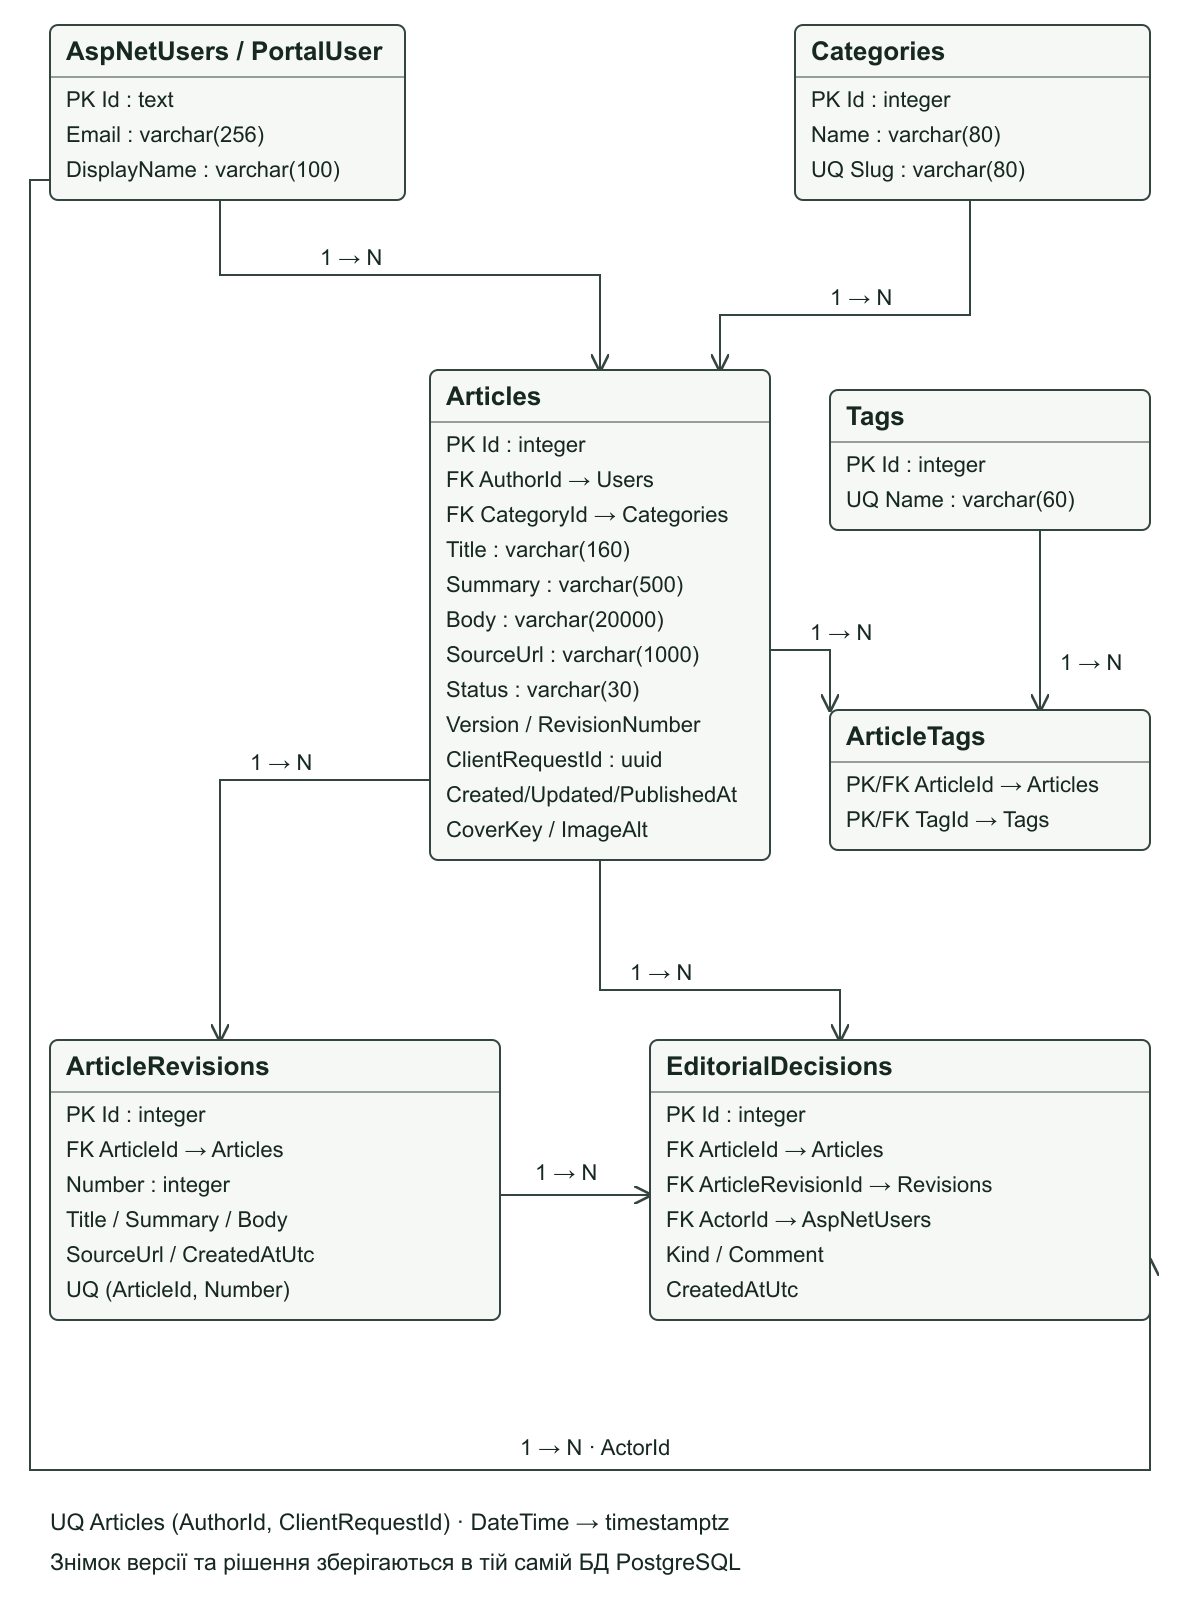
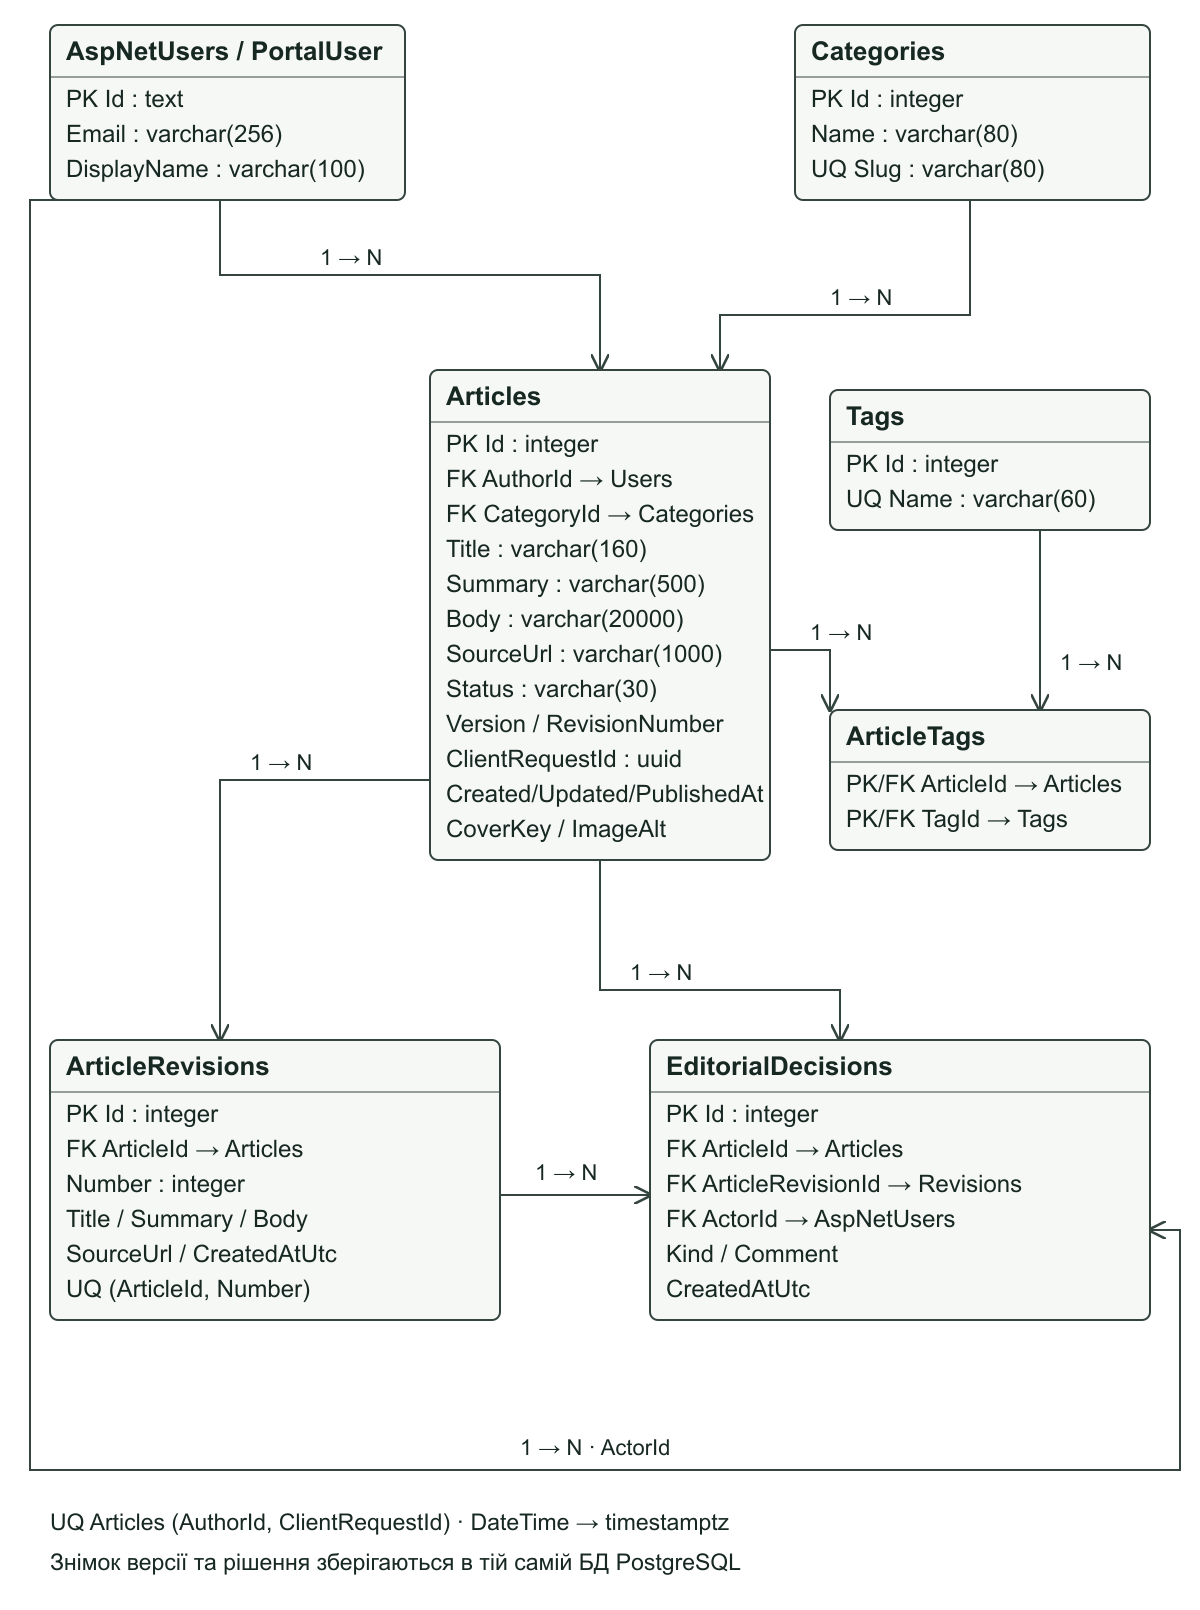
Polish diagrams and record visible revision comparison for submission

diff --git a/README.md b/README.md
@@ -2,6 +2,8 @@
 
 Курсова робота з дисципліни «Веб-технології та веб-дизайн», варіант №1 — науково-популярний новинний портал. Резников Володимир Іванович, АІ-231.
 
+Репозиторій: [D0zz1/ScienceLine](https://github.com/D0zz1/ScienceLine). Версія подання: **v1.0.1**. Файли цієї версії доступні за відповідною Git-позначкою.
+
 Працездатний ASP.NET Core MVC застосунок із PostgreSQL, EF Core migrations, ASP.NET Core Identity та локальною копією Bootstrap 5.3.8. Це навчальна редакція: початкові статті й облікові записи демонстраційні, ілюстрації — власні SVG-схеми. Публічна статична копія не використовується замість backend.
 
 ## Що реалізовано
@@ -26,7 +28,7 @@ CREATE ROLE scienceline LOGIN PASSWORD 'REPLACE_WITH_RANDOM_DATABASE_PASSWORD';
 CREATE DATABASE scienceline OWNER scienceline;
 ```
 
-У PowerShell із кореня репозиторію:
+У PowerShell 7 із кореня репозиторію:
 
 ```powershell
 $env:ConnectionStrings__Portal='Host=127.0.0.1;Port=5432;Database=scienceline;Username=scienceline;Password=YOUR_DATABASE_PASSWORD'

diff --git a/docs/release.md b/docs/release.md
@@ -1,0 +1,7 @@
+# Версія подання v1.0.1
+
+Працездатний портал ScienceLine для варіанта1, ASP.NET Core MVC та PostgreSQL. Версія v1.0.1 уточнює стрілки діаграм, знімки екранів і сценарій відео, щоб доданий абзац і збережений текст були видимі безпосередньо в кадрі. Прикладний C#-код і правила предметної області не змінені від перевіреної v1.0.0.
+
+Докази локального виконання: 13 модульних, 41 HTTP-перевірка реальної PostgreSQL, 8 браузерних перевірок та окреме читання після перезапуску. Фінальна MP4-демонстрація має тривалість близько205 секунд. Звіт і відео передаються як окремі файли разом із вихідним архівом; вони не є прихованими залежностями запуску.
+
+Публічний код не містить чинних паролів, локальних ключів Data Protection, бази даних, SDK або браузерних профілів. Для нового запуску створюються власні параметри за README.
